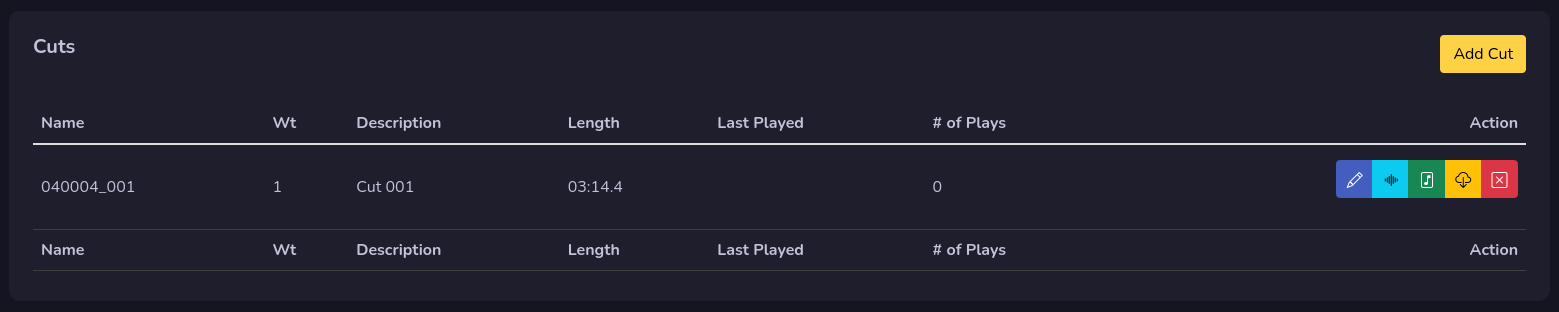
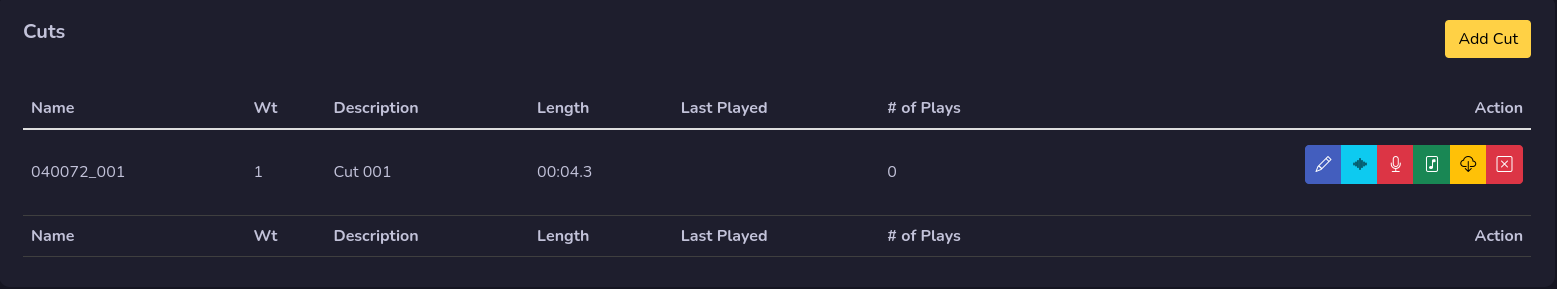
Deployed fd085e7 with MkDocs version: 1.4.2

diff --git a/audiocart/index.html b/audiocart/index.html
@@ -395,6 +395,13 @@
 </li>
         
           <li class="md-nav__item">
+  <a href="#record-cut" class="md-nav__link">
+    Record Cut
+  </a>
+  
+</li>
+        
+          <li class="md-nav__item">
   <a href="#edit-audio-markers" class="md-nav__link">
     Edit Audio Markers
   </a>
@@ -866,6 +873,13 @@
 </li>
         
           <li class="md-nav__item">
+  <a href="#record-cut" class="md-nav__link">
+    Record Cut
+  </a>
+  
+</li>
+        
+          <li class="md-nav__item">
   <a href="#edit-audio-markers" class="md-nav__link">
     Edit Audio Markers
   </a>
@@ -928,6 +942,16 @@ In your audio cart management you will find your cuts, each cut is an audio file
 <p><img alt="Screenshot" src="../img/cutinfo.png" />
 If you press the pen button on the cut, you will open the cut info window where you can change your cut settings. This is where you can adjust the day parts, cut name etc.</p>
 <p>Just press save button to save your changes.</p>
+<h3 id="record-cut">Record Cut</h3>
+<p><img alt="Screenshot" src="../img/recordcut.png" />
+The red button with an microphone on, allows you to record audio directly in to that cut. When you press on that button a window will open, start by set the audio channels, audiotrim and normalize settings.</p>
+<p>To start a recording, press the record button, if not already setup you will have to select input audio in your web browser first. Now your recording started. A stop button will show so you can stop recording.</p>
+<p><img alt="Screenshot" src="../img/recordedcut.png" />
+When the recording is done, you can listen to your recording by pressing the play button, save your recording by pressing the Save Recording button or download the recording by pressing the Download Recording button.</p>
+<div class="admonition info">
+<p class="admonition-title">Info</p>
+<p><strong>You can press the Record button again if you need to do a new recording. The new recording will be available below the old recording.</strong></p>
+</div>
 <h3 id="edit-audio-markers">Edit Audio Markers</h3>
 <p><img alt="Screenshot" src="../img/editmarkers.png" />
 The light blue button that looks like audio waves is where you can manage your cuts audio markers. You can set your fades, segue, talk and hook.</p>
